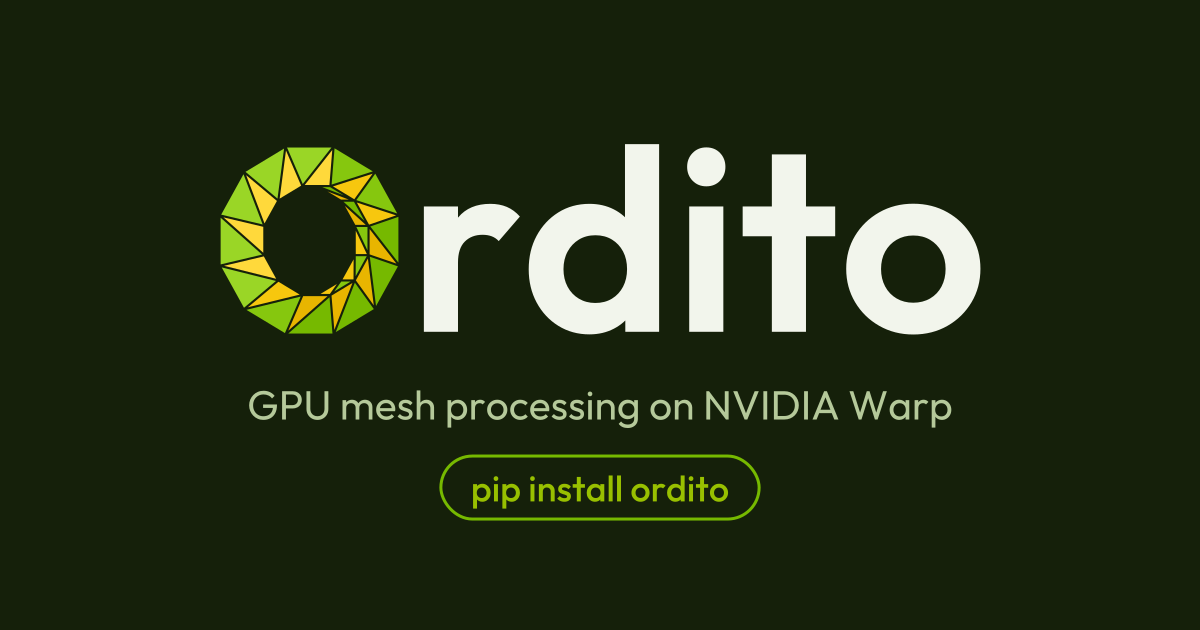
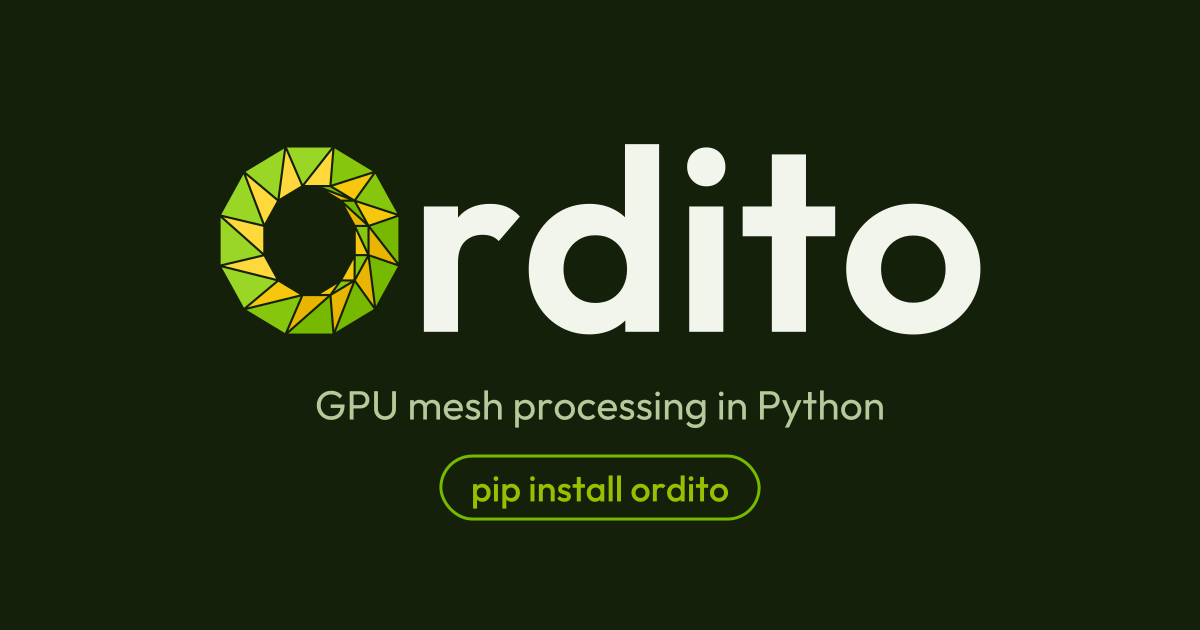
:art: Tagline: GPU mesh processing in Python
On both link-preview cards, their alt text and the docs home page title.

Changed region(s): [[0.185, 0.6032, 0.8017, 0.6937]]

diff --git a/docs/.overrides/main.html b/docs/.overrides/main.html
@@ -18,7 +18,7 @@
   <meta property="og:image:type" content="image/png">
   <meta property="og:image:width" content="1200">
   <meta property="og:image:height" content="630">
-  <meta property="og:image:alt" content="ordito: GPU mesh processing on NVIDIA Warp">
+  <meta property="og:image:alt" content="ordito: GPU mesh processing in Python">
   <meta name="twitter:card" content="summary_large_image">
   <meta name="twitter:title" content="{{ title | striptags }}">
   <meta name="twitter:description" content="{{ description }}">

diff --git a/ordito/repair.py b/ordito/repair.py
@@ -77,15 +77,11 @@ from ordito.kernels import array as kernel_array
 from ordito.kernels import grouping as kernel_grouping
 from ordito.kernels import polyline as kernel_polyline
 from ordito.kernels import reduce as kernel_reduce
-from ordito.kernels import remesh as kernel_remesh
 from ordito.kernels import repair as kernel_repair
 from ordito.kernels import scatter as kernel_scatter
 from ordito.kernels import selection as kernel_selection
 from ordito.kernels.algorithms import connected_components as kernel_connected_components
-from ordito.remesh import (
-    _collapse_pass,  # pyright: ignore[reportPrivateUsage]
-    _flip_interior_edges,  # pyright: ignore[reportPrivateUsage]
-)
+from ordito.remesh import _collapse_pass  # pyright: ignore[reportPrivateUsage]
 from ordito.selection import _compact_marked_submesh  # pyright: ignore[reportPrivateUsage]
 from ordito.validation import (
     _closed_signed_volume,  # pyright: ignore[reportPrivateUsage]
@@ -98,10 +94,10 @@ from ordito.validation import (
 # it allocates is cubic in it; a caller who needs the surface resolved finer passes ``voxel_size``.
 _VOXEL_REBUILD_RESOLUTION = 128
 
-# Passes per ``fix_degeneracies`` round: the collapse passes stop early on one that commits nothing,
-# the flip rounds on one that flips nothing, so both only bound a round.
+# Collapse passes per ``fix_degeneracies`` round: they stop early on one that commits nothing, so
+# this only bounds a round.
 _DEGENERACY_COLLAPSE_PASSES = 10
-_DEGENERACY_FLIP_ROUNDS = 10
+_DEGENERACY_COLLAPSE_ROUNDS = 2
 
 # ``remove_tunnels``' search through the basis vertices: the ball rows a root starts with, how much
 # wider a root whose ball outgrew them is searched again, the scratch entries one launch may
@@ -1548,27 +1544,31 @@ def fix_degeneracies(
     tiny_edge_length: float = 0.0,
     critical_aspect_ratio: float = 1e4,
     max_angle_change: float = 60.0,
+    region_rings: int = 3,
     max_iter: int = 10,
 ) -> tuple[wp.array[wp.vec3], wp.array[wp.int32]]:
     """
-    Remove needle and cap triangles and tiny edges by bounded edge flips and collapses.
+    Remove needle and cap triangles and tiny edges by local flips and collapses around them.
 
     A triangle is *degenerate* when its aspect ratio (circumradius over twice the inradius, the
     ``aspect_ratio`` of [`face_quality`][ordito.triangles.face_quality]) reaches
-    ``critical_aspect_ratio``. Two local moves remove one, each only when it moves the surface by at
-    most ``max_deviation``:
+    ``critical_aspect_ratio``. The repair works in a **region**: the degenerate faces and those on
+    an edge no longer than ``tiny_edge_length``, grown by ``region_rings`` rings of neighbouring
+    faces. Inside it, two local moves alternate until no collapse remains:
 
-    - **Flip** the diagonal of the quad holding the degenerate triangle when that improves the
-      worse of its two triangles: this is what fixes a *cap*, whose apex sits on its long edge. The
-      new diagonal must not form a crease sharper than ``max_angle_change``.
-    - **Collapse** the degenerate triangle's shortest edge to its midpoint: this is what fixes a
-      *needle*, whose short edge has nothing to flip to. An edge no longer than
-      ``tiny_edge_length`` collapses whatever its faces' shape and the deviation bound.
+    - **Flip** every edge that fails the Delaunay test, as
+      [`flip_to_delaunay`][ordito.remesh.flip_to_delaunay] does, when the flip moves the surface
+      by at most ``max_deviation`` and changes the dihedral angle across it by at most
+      ``max_angle_change`` (a quad holding a degenerate face may exceed the angle). This is what
+      fixes a *cap*, whose apex sits on its long edge.
+    - **Collapse** every edge no longer than ``max_deviation``, shortest first, into the endpoint
+      whose removal moves the surface least. This is what fixes a *needle*. A collapse that would
+      leave a face of aspect ratio above 20 is skipped, unless a face it touches was already worse
+      or its edge is no longer than ``tiny_edge_length``.
 
-    Flip rounds and collapse passes alternate until neither changes the mesh, so a degeneracy that
-    one move only shifts onto a neighbour is followed there. The surface keeps its topology: a
-    collapse that would pinch a handle or a sheet shut (the link condition) or fold a neighbouring
-    face is skipped, and boundary vertices only slide along the boundary.
+    The surface keeps its topology: a collapse that would pinch a handle or a sheet shut (the link
+    condition) is skipped, as is one that would fold a face over unless a degenerate face is
+    involved, and boundary vertices stay on the boundary.
 
     Parameters
     ----------
@@ -1577,16 +1577,16 @@ def fix_degeneracies(
     faces
         ``(3 * n_faces,)`` flat triangle index buffer.
     max_deviation
-        Largest distance, in mesh units, one flip or collapse may move the surface. ``0`` permits
-        only exact moves (a flip across a planar quad, a collapse of a zero-length edge) and the
-        ``tiny_edge_length`` collapses.
+        Longest edge collapsed and largest surface move of a flip, in mesh units. A collapse keeps
+        one endpoint in place, so it too moves the surface by at most this length.
     tiny_edge_length
-        Edges no longer than this collapse even between well-shaped faces and past
-        ``max_deviation``.
+        Edges no longer than this collapse whatever the shape they leave, and seed the region.
     critical_aspect_ratio
         Aspect ratio from which a triangle counts as degenerate (``1`` is equilateral).
     max_angle_change
-        Largest dihedral angle, in **degrees**, a flip may leave across its new diagonal.
+        Largest change of dihedral angle, in **degrees**, a flip may make.
+    region_rings
+        Rings of faces the region extends past the faces that seed it.
     max_iter
         Cap on the alternating flip-and-collapse rounds.
 
@@ -1600,8 +1600,8 @@ def fix_degeneracies(
     Raises
     ------
     ValueError
-        If ``max_deviation`` or ``tiny_edge_length`` is negative, ``critical_aspect_ratio`` is
-        below ``1``, or ``max_angle_change`` is outside ``[0, 180]``.
+        If ``max_deviation``, ``tiny_edge_length`` or ``region_rings`` is negative,
+        ``critical_aspect_ratio`` is below ``1``, or ``max_angle_change`` is outside ``[0, 180]``.
     RuntimeError
         If ``vertices`` and ``faces`` are not all on one device.
 
@@ -1609,15 +1609,16 @@ def fix_degeneracies(
     --------
     [`collapse_small_triangles`][ordito.repair.collapse_small_triangles]
     [`flip_t_vertices`][ordito.repair.flip_t_vertices]
-    [`ordito.remesh.isotropic_remesh`][ordito.remesh.isotropic_remesh]
+    [`ordito.remesh.flip_to_delaunay`][ordito.remesh.flip_to_delaunay]
 
     Notes
     -----
-    The flips and collapses each commit a conflict-free independent set per pass, so the moves of
-    one pass are applied together but never overlap. ``max_deviation`` bounds each move against the
-    mesh it is applied to, not against the input: a vertex moved by two successive collapses can
-    drift by up to twice the bound. A degenerate triangle neither move can fix within the bound (a
-    cap on the boundary, a needle whose collapse would fold a neighbour) is left in place.
+    The collapses of one pass are a conflict-free independent set, chosen shortest edge first
+    within each neighbourhood, so they are applied together but never overlap; the sequence
+    differs from a serial shortest-edge-first queue, and so does the triangulation it ends on.
+    The region is fixed when the call starts and follows the surviving vertices, so the moves never
+    spread past it. A degenerate triangle no move can fix (a cap on the boundary, a needle whose
+    collapse would leave worse faces) is left in place.
 
     Examples
     --------
@@ -1635,7 +1636,7 @@ def fix_degeneracies(
     needled = wp.array(positions, dtype=wp.vec3)
     new_vertices, new_faces = od.repair.fix_degeneracies(needled, faces, 1e-3)
     print(new_vertices.shape, new_faces.shape[0] // 3)  # (15,) 16
-    print(f"{od.triangles.face_quality(new_vertices, new_faces).numpy().max():.1f}")  # 3.7
+    print(f"{od.triangles.face_quality(new_vertices, new_faces).numpy().max():.1f}")  # 1.2
     ```
     """
     require_same_device(vertices=vertices, faces=faces)
@@ -1647,89 +1648,80 @@ def fix_degeneracies(
         raise ValueError(f"critical_aspect_ratio must be at least 1, got {critical_aspect_ratio}")
     if not 0.0 <= max_angle_change <= 180.0:
         raise ValueError(f"max_angle_change must be in [0, 180] degrees, got {max_angle_change}")
+    if region_rings < 0:
+        raise ValueError(f"region_rings must be non-negative, got {region_rings}")
 
-    if faces.size == 0:
+    device = faces.device
+    n_faces = faces.size // 3
+    if n_faces == 0:
         return _launch.clone(vertices), _launch.clone(faces)
+    seeds = _launch.zeros(vertices.size, dtype=wp.bool, device=device)
+    n_seeds = _launch.zeros(1, dtype=wp.int32, device=device)
+    _launch.launch(
+        kernel_repair.mark_degeneracy_seeds,
+        dim=n_faces,
+        inputs=[
+            vertices,
+            faces,
+            wp.float32(critical_aspect_ratio),
+            wp.float32(tiny_edge_length),
+            seeds,
+            n_seeds,
+        ],
+        device=device,
+    )
+    # The one readback before any work: a mesh with nothing to repair costs one pass.
+    if int(read_scalar(n_seeds, 0)) == 0:
+        return _launch.clone(vertices), _launch.clone(faces)
+    # The region is held per vertex, a face being inside when its three corners are: the collapse
+    # passes compact it with the vertices, which a face mask would not survive.
+    grown = od.selection.expand_vertex_mask(faces, seeds, region_rings)
+    region = _launch.empty(vertices.size, dtype=wp.float32, device=device)
+    _launch.map(kernel_repair.region_weight, grown, out=region)
+
     degeneracy = wp.vec3(tiny_edge_length, max_deviation, critical_aspect_ratio)
-    bend_cos = wp.float32(math.cos(math.radians(max_angle_change)))
     # Only the boundary is a feature: a degenerate face's normal is noise, so a dihedral test would
     # freeze exactly the vertices that must move.
     feature = wp.float32(math.pi)
     current_vertices = vertices
-    current_faces = _launch.clone(faces)
+    current_faces = faces
     for _ in range(max_iter):
-        n_faces = current_faces.size
-        flips = _flip_degenerate_faces(
-            current_vertices, current_faces, critical_aspect_ratio, max_deviation, bend_cos
+        n_current = current_faces.size
+        face_region = _launch.empty(n_current // 3, dtype=wp.bool, device=device)
+        _launch.launch(
+            kernel_repair.faces_in_vertex_region,
+            dim=n_current // 3,
+            inputs=[current_faces, region],
+            outputs=[face_region],
+            device=device,
         )
-        current_vertices, current_faces, _incidence = _collapse_pass(
+        current_faces = od.remesh.flip_to_delaunay(
             current_vertices,
             current_faces,
-            0.0,
+            region=face_region,
+            max_angle_change=math.radians(max_angle_change),
+            max_deviation=max_deviation,
+            critical_aspect_ratio=critical_aspect_ratio,
+        )
+        current_vertices, current_faces, _incidence, kept_region = _collapse_pass(
+            current_vertices,
+            current_faces,
+            region,
             0.0,
             feature,
             max_passes=_DEGENERACY_COLLAPSE_PASSES,
             degeneracy=degeneracy,
+            rounds=_DEGENERACY_COLLAPSE_ROUNDS,
         )
-        if flips == 0 and current_faces.size == n_faces:
+        assert kept_region is not None
+        region = kept_region
+        # Each committed collapse removes a face, and flips never undo a flip fixpoint on unchanged
+        # positions, so a round without one ends the repair.
+        if current_faces.size == n_current:
             break
     if current_vertices is vertices:
         current_vertices = _launch.clone(vertices)
     return current_vertices, current_faces
-
-
-def _flip_degenerate_faces(
-    vertices: wp.array[wp.vec3],
-    faces: wp.array[wp.int32],
-    critical_aspect_ratio: float,
-    max_deviation: float,
-    bend_cos: wp.float32,
-) -> int:
-    """
-    Flip, in place, every quad diagonal that improves a degenerate triangle within the bounds.
-
-    The ``t_vertex`` objective of [`flip_by_objective`][ordito.remesh.flip_by_objective] plus the
-    deviation and bend gates (``kernel_remesh.flip_within_deviation``). Returns the flip count.
-    """
-    device = faces.device
-
-    def launch(
-        adjacency: odt.Array2dInt32,
-        adjacency_edges: odt.Array2dInt32,
-        unshared: odt.Array2dInt32,
-        sorted_keys: wp.array[wp.uint64],
-        edge_set: wp.array[wp.uint64],
-        edge_set_mask: wp.int32,
-        key_base: wp.uint64,
-        out_flip: wp.array[wp.bool],
-        out_quad: odt.Array2dInt32,
-    ) -> None:
-        _launch.launch(
-            kernel_remesh.objective_flip_candidates,
-            dim=int(adjacency.shape[0]),
-            inputs=[
-                vertices,
-                faces,
-                adjacency,
-                adjacency_edges,
-                unshared,
-                None,
-                sorted_keys,
-                edge_set,
-                edge_set_mask,
-                key_base,
-                kernel_remesh.OBJECTIVE_DEGENERACY,
-                wp.int32(0),
-                bend_cos,
-                wp.float32(critical_aspect_ratio),
-                wp.float32(max_deviation),
-                out_flip,
-                out_quad,
-            ],
-            device=device,
-        )
-
-    return _flip_interior_edges(faces, vertices.size, launch, _DEGENERACY_FLIP_ROUNDS)
 
 
 @overload

diff --git a/ordito/kernels/repair.py b/ordito/kernels/repair.py
@@ -218,6 +218,51 @@ def reduce_largest_group(counts: wp.array[wp.int32], out_best: wp.array[wp.int64
         wp.atomic_max(out_best, 0, pack_ranked_key(counts[group], group))
 
 
+@wp.kernel
+def mark_degeneracy_seeds(
+    vertices: wp.array[wp.vec3],
+    faces: wp.array[wp.int32],
+    critical_aspect_ratio: wp.float32,
+    tiny_edge_length: wp.float32,
+    out_vertex_mask: wp.array[wp.bool],
+    out_count: wp.array[wp.int32],
+) -> None:
+    # Mark the corners of every face ``fix_degeneracies`` must repair -- aspect ratio at or above
+    # the critical one, or a side no longer than the tiny length -- and count those faces, so the
+    # caller reads one word to learn there is nothing to do. ``out_vertex_mask`` starts cleared;
+    # concurrent writes all store ``True``.
+    f = wp.int32(wp.tid())
+    i0, i1, i2 = corner_triple(faces, f)
+    p0 = vertices[i0]
+    p1 = vertices[i1]
+    p2 = vertices[i2]
+    shortest = wp.min(wp.min(wp.length(p1 - p0), wp.length(p2 - p1)), wp.length(p0 - p2))
+    # ``not (aspect < critical)`` also takes a NaN ratio as degenerate.
+    if triangle_aspect_ratio(p0, p1, p2) < critical_aspect_ratio and shortest > tiny_edge_length:
+        return
+    out_vertex_mask[i0] = True
+    out_vertex_mask[i1] = True
+    out_vertex_mask[i2] = True
+    wp.atomic_add(out_count, 0, 1)
+
+
+@wp.func
+def region_weight(inside: wp.bool) -> wp.float32:
+    # A vertex mask as the per-vertex table the collapse passes compact: positive inside.
+    return wp.where(inside, wp.float32(1.0), wp.float32(0.0))
+
+
+@wp.kernel
+def faces_in_vertex_region(
+    faces: wp.array[wp.int32], region: wp.array[wp.float32], out_mask: wp.array[wp.bool]
+) -> None:
+    # A face is in ``fix_degeneracies``' region when its three corners are, the rule the collapse
+    # candidates apply (``remesh.edge_faces_in_region``).
+    f = wp.int32(wp.tid())
+    i0, i1, i2 = corner_triple(faces, f)
+    out_mask[f] = region[i0] > 0.0 and region[i1] > 0.0 and region[i2] > 0.0
+
+
 @wp.kernel(enable_backward=False)
 def small_triangle_collapse_edges(
     vertices: wp.array[wp.vec3],
@@ -1422,7 +1467,8 @@ def _declare_map_kernels() -> None:
     and what forks a ``wp.map`` module; only this module's *own* forking ops belong here (the shared
     builtins are declared there).
 
-    Two ops: ``is_interior_degree3``, mapped over ``(ring_offsets[:-1], ring_offsets[1:],
+    Three ops: ``region_weight``, mapped over ``fix_degeneracies``' grown vertex mask, and
+    ``is_interior_degree3``, mapped over ``(ring_offsets[:-1], ring_offsets[1:],
     is_boundary)`` by ``repair.flatten_degree3_vertices``, and ``is_interior_degree3_in_region``,
     the same with the caller's ``region`` mask. The length-1 rows are not speculative -- a ring CSR
     over a one-vertex mesh makes both offset slices length 1, and the broadcast mask is part of the
@@ -1432,6 +1478,8 @@ def _declare_map_kernels() -> None:
     declare_map_signatures(
         [
             (is_interior_degree3, (dense(wp.int32), dense(wp.int32), dense(wp.bool)), wp.bool),
+            (region_weight, (dense(wp.bool),), wp.float32),
+            (region_weight, (single(wp.bool),), wp.float32),
             (is_interior_degree3, (single(wp.int32), single(wp.int32), single(wp.bool)), wp.bool),
             (
                 is_interior_degree3_in_region,

diff --git a/.github/make_wordmark.py b/.github/make_wordmark.py
@@ -112,7 +112,7 @@ def social_card(card_w: int, card_h: int) -> str:
     mark_w = 0.66 * card_w
     k = mark_w / width
     mark_h = height * k
-    tag_d, tag_adv = outline("GPU mesh processing on NVIDIA Warp", 400)
+    tag_d, tag_adv = outline("GPU mesh processing in Python", 400)
     cta_d, cta_adv = outline("pip install ordito", 500)
     tag_k, cta_k = 0.034 * card_w / upm, 0.03 * card_w / upm
     inner = re.search(r"<svg[^>]*>(.*)</svg>", wordmark("#F2F5EC", ""), re.S).group(1)

diff --git a/docs/index.md b/docs/index.md
@@ -1,5 +1,5 @@
 ---
-title: GPU mesh processing on NVIDIA Warp
+title: GPU mesh processing in Python
 ---
 
 <h1 class="ordito-wordmark">
